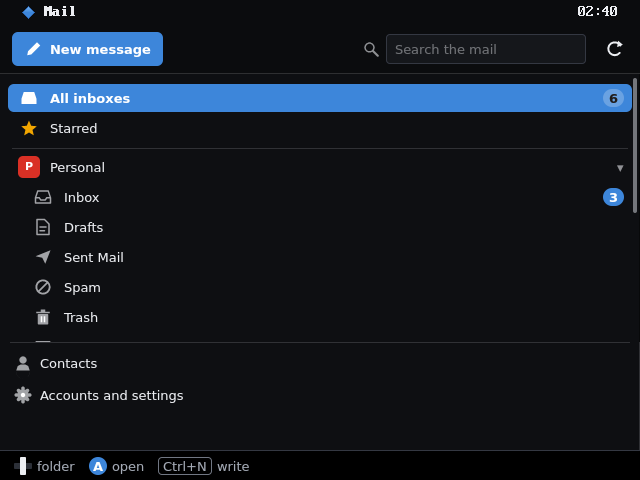
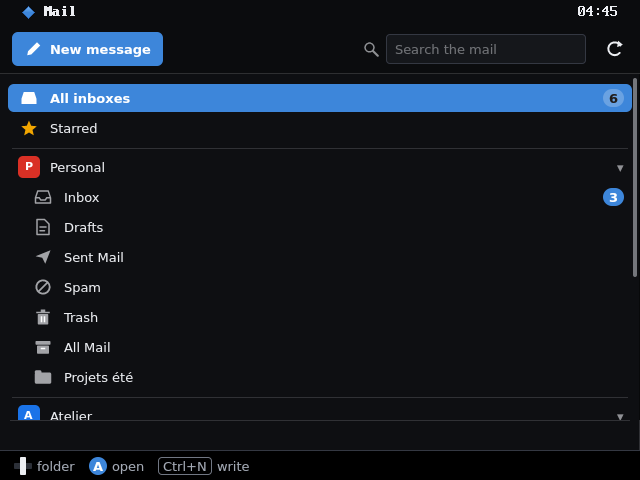
Pocket at 640 x 480, the medium fixes: the Control Panel's applets fit their 640 px pane (UIKit's uk_fit_pane), the Package Manager's window is the screen's, Mail's two account dialogs whole and reached by the keys, Setup's Wi-Fi password on its own page
Theme, Mode, Preload, App Settings, Panel: no sideways scroll, nothing out at the right. Package Manager: L / R its
tabs, the keys in its list. Mail: Contacts and Accounts are rows of the folders' list in pocket, B closes the boxes.
Setup: Up / Down a network, A chooses, the password shown as typed, B back; You are online readable. Suites:
pocket640 263 ok, pocketterm 78, run 500, adaptive 216; desktop pictures unchanged (39 compared); check_stubs 0 wrong.

Changed region(s): [[0.0, 0.6875, 0.3125, 0.875], [0.9688, 0.4375, 1.0, 0.5625], [0.9062, 0.0, 0.9375, 0.0312]]

diff --git a/user/Apps/setup/main.cpp b/user/Apps/setup/main.cpp
@@ -596,10 +596,16 @@ class NetList : public Widget
 public:
 	int sel, state; char err[96]; static const int RH = 42, OPEN_H = 92, OPEN_H0 = 50;
 	Textbox *pass; AccentButton *go; Checkbox *autoc;
-	NetList (int l, int t, int w, int h, Action onConnect) : Widget (l, t, w, h), sel (-1), state (NET_LIST)
+	Action conn;					// (pocket: A on an open network connects at once)
+	// POCKET (no pointer): Up / Down go from network to network (a bar on the one they are on; Up from the first: none),
+	// A (Enter) chooses it -- an open one connects; one with a password shows THE PASSWORD'S PAGE: that network alone,
+	// its field (the password shown as it is typed: a hidden one on a thumb keyboard is a locked door), A connects,
+	// B (Esc) goes back to the list.
+	bool page () const { return g_pk && open (); }
+	NetList (int l, int t, int w, int h, Action onConnect) : Widget (l, t, w, h), sel (-1), state (NET_LIST), conn (onConnect)
 	{
 		err[0] = 0;
-		pass = new Textbox (54, 0, width - 250, 30, "", onConnect); pass->password = true; pass->maxLen = 63;
+		pass = new Textbox (54, 0, width - 250, 30, "", onConnect); pass->password = !g_pk; pass->maxLen = 63;
 		go = new AccentButton (width - 178, 0, 160, 32, TR ("Connect"), onConnect);
 		autoc = new Checkbox (54, 0, 240, 22, TR ("Connect automatically"), true, 0, sel_bg ());
 		addChild (pass); addChild (go); addChild (autoc);
@@ -610,8 +616,8 @@ public:
 	bool open () const { return sel >= 0 && sel < g_nnets && state == NET_PASSWORD; }
 	bool needPass () const { return open () && g_nets[sel].sec != WLAN_SEC_OPEN; }
 	int openH () const { return open () ? (needPass () ? OPEN_H : OPEN_H0) : 0; }
-	int rowY (int i) const { return 4 + i * RH + (sel >= 0 && i > sel ? openH () : 0); }
-	int total () const { return 8 + (g_nnets ? g_nnets : 1) * RH + openH (); }
+	int rowY (int i) const { return page () ? 4 : 4 + i * RH + (sel >= 0 && i > sel ? openH () : 0); }
+	int total () const { return page () ? 8 + RH + openH () : 8 + (g_nnets ? g_nnets : 1) * RH + openH (); }
 	void place ()
 	{
 		bool o = open (), p = needPass ();
@@ -637,6 +643,8 @@ public:
 		for (int i = 0; i < g_nnets; i++)
 		{
 			const Net &n = g_nets[i]; int y = rowY (i); bool s = i == sel;
+			if (page () && !s) continue;		// (the password's page: that network alone)
+			if (g_pk && s && !open () && state != NET_CONNECTING) sel_row (canvas, 4, y, width - 8, RH - 4);	// (the keys' network)
 			if (s && open ()) sel_row (canvas, 4, y, width - 8, RH + openH () - 4);
 			else if (i > 0 && !(sel == i - 1 && open ())) canvas.fillRect (14, y, width - 28, 1, line_c (card_c ()));
 			bars (canvas, 18, y + 14, bars_of (n.level), C_FIELD_TEXT, uk_mix (card_c (), C_TEXT, 60));
@@ -665,14 +673,27 @@ public:
 	}
 	bool onKey (long k) override			// (pocket: Up / Down a network -- its row opens, the password's field has the keys)
 	{
-		if (!g_pk || (k != KEY_UP && k != KEY_DOWN) || g_nnets <= 0 || state == NET_CONNECTING) return false;
+		if (!g_pk || g_nnets <= 0 || state == NET_CONNECTING) return false;
+		if (open ())					// the password's page (an open network's: its Connect button)
+		{
+			if (k == 27) { state = NET_LIST; err[0] = 0; place (); setFocus (); return true; }
+			if (k == KEY_ENTER) { if (conn) conn (*this); return true; }
+			return k == KEY_UP || k == KEY_DOWN;
+		}
+		if (k == KEY_ENTER && sel >= 0 && sel < g_nnets && !(g_nets[sel].con && state == NET_CONNECTED))
+		{
+			err[0] = 0; pass->setText ("");
+			if (g_nets[sel].sec == WLAN_SEC_OPEN) { state = NET_PASSWORD; place (); if (conn) conn (*this); return true; }
+			state = NET_PASSWORD; place (); invalidate (true); pass->setFocus ();
+			return true;
+		}
+		if (k != KEY_UP && k != KEY_DOWN) return false;
 		int i = sel + (k == KEY_DOWN ? 1 : -1);
-		if (sel < 0) i = 0;
-		if (i < 0 || i >= g_nnets) return true;
-		if (g_nets[i].con && state == NET_CONNECTED) return true;
-		sel = i; state = NET_PASSWORD; err[0] = 0; pass->setText ("");
-		place (); invalidate (true);
-		if (needPass ()) pass->setFocus (); else go->setFocus ();
+		if (sel < 0) i = k == KEY_DOWN ? 0 : -1;
+		if (i >= g_nnets) return true;
+		if (i < 0) { sel = -1; invalidate (true); return true; }	// (none: A is "Continue" again)
+		sel = i; err[0] = 0;
+		invalidate (true);
 		return true;
 	}
 	bool onMouse (int mx, int my, int bl, int, int, int) override
@@ -753,6 +774,7 @@ public:
 		uk_rbox (canvas, 0, 0, width, height, 8, bg, bg);
 		uk_rline (canvas, 0, 0, width, height, 8, uk_mix (card_c (), c, 120));
 		unsigned ink = uk_tone (c, 70);
+		if (g_pk && uk_flat ()) ink = uk_mix (c, 0x00FFFFFF, 150);	// (pocket's dark card: a light shade of the colour, readable)
 		if (kind == 0) { disc (canvas, 14, height / 2 - 13, 26, c); uk_glyph (canvas, WKG_CHECK, 27, height / 2, 12, 0x00FFFFFF); }
 		else
 		{

diff --git a/user/Apps/mail/main.cpp b/user/Apps/mail/main.cpp
@@ -300,6 +300,12 @@ static void side_build ()			// the items: made again when the accounts, the fold
 		}
 	}
 	if (!g_m.accts.n) g_side->addItem (S_ADD, TR ("Add an account..."), I_PLUS);
+	if (g_three)						// (pocket's three screens, no pointer: the foot's two rows are rows of the
+	{							//  list -- the arrows reach them, Enter uses them)
+		g_side->addSeparator ();
+		g_side->addItem (S_CONTACTS, TR ("Contacts"), I_PERSON);
+		g_side->addItem (S_SETTINGS, TR ("Accounts and settings"), I_GEAR);
+	}
 	side_select ();
 }
 static void side_chosen (SidePanel &, int id)
@@ -309,6 +315,8 @@ static void side_chosen (SidePanel &, int id)
 	else if (id == S_UNIFIED) { show_contacts (false); select_view (SEL_UNIFIED); }
 	else if (id == S_STARRED) { show_contacts (false); select_view (SEL_STARRED); }
 	else if (id == S_ADD) { side_select (); open_wizard (); return; }
+	else if (id == S_CONTACTS) { side_select (); show_contacts (true); return; }
+	else if (id == S_SETTINGS) { side_select (); open_settings (); return; }
 	if (g_three) three_go (SC_LIST);			// (pocket's three screens: a folder chosen -- its messages)
 }
 class SideFoot : public Widget
@@ -335,15 +343,19 @@ public:
 		hits.clear ();
 		canvas.fillRect (width - 1, 0, 1, height, con () ? 0x00304870 : uk_mix (col_side (), C_TEXT, 40));
 		canvas.fillRect (10, 0, width - 20, 1, uk_mix (face (), ink (), 40));
+		if (!g_three)					// (pocket's three screens: they are rows of the list above)
+		{
 		row (6, S_CONTACTS, I_PERSON, TR ("Contacts"), g_showContacts);
 		row (38, S_SETTINGS, I_GEAR, TR ("Accounts and settings"), false);
+		}
 		const char *st = g_m.worker.current[0] ? g_m.worker.current : (g_note[0] && kapi_get_ticks () - g_noteT < 800) ? g_note : g_m.lastError;
 		bool isErr = !g_m.worker.current[0] && !(g_note[0] && kapi_get_ticks () - g_noteT < 800) && g_m.lastError[0];
 		if (st && st[0])
 		{
-			if (isErr) icon (canvas, I_WARN, 12, 78, 14, 0xC5221F);
-			text (canvas, isErr ? 32 : 14, 77, st, uk_mix (face (), ink (), 150), F_SMALL, 0, width - (isErr ? 40 : 24));
-			if (isErr) hits.add (0, 72, width, 26, S_ERROR);
+			int sy = g_three ? 8 : 77;			// (pocket's three screens: the foot is this line alone)
+			if (isErr) icon (canvas, I_WARN, 12, sy + 1, 14, 0xC5221F);
+			text (canvas, isErr ? 32 : 14, sy, st, uk_mix (face (), ink (), 150), F_SMALL, 0, width - (isErr ? 40 : 24));
+			if (isErr) hits.add (0, sy - 5, width, 26, S_ERROR);
 		}
 	}
 	bool onMouse (int mx, int my, int bl, int, int, int) override
@@ -635,6 +647,7 @@ static void layout_three (int W, int H)
 	g_onePane = g_oneConv = false;
 	g_tb->resizeTo (W, TB_H); g_tb->place ();
 	g_side->setRail (false);
+	g_side->setFooter (g_foot, 30);				// (its two rows are rows of the list here: the status line alone)
 	g_side->place (s == SC_FOLDERS ? 0 : W, TB_H, W, H - TB_H);
 	((Widget *) g_side)->hidden = s != SC_FOLDERS && s != SC_LIST;
 	((Widget *) g_side)->disabled = s != SC_FOLDERS;
@@ -650,7 +663,7 @@ static void layout_parts ()
 	int W = g_root->width, H = g_root->height;
 	{
 		bool three = uk_mode () == UK_MODE_POCKET && uk_size_class () == UK_SC_COMPACT && W < 800;
-		if (g_three && !three) { g_side->setRail (true); ((Widget *) g_side)->hidden = false; ((Widget *) g_side)->disabled = false; }
+		if (g_three && !three) { g_side->setRail (true); g_side->setFooter (g_foot, 108); ((Widget *) g_side)->hidden = false; ((Widget *) g_side)->disabled = false; }
 		bool first = three && !g_three;
 		g_three = three;
 		if (three) { side_build (); layout_three (W, H); if (first) three_focus (); return; }
@@ -1289,6 +1302,8 @@ int main (void)
 	{							// (pocket on a small screen: a message's title 20 px, not 24)
 		int sw = 0, sh = 0; kapi_screen_size (&sw, &sh);
 		if (uk_mode () == UK_MODE_POCKET && sw > 0 && sw < 800 && g_face[F_H1]) g_face[F_H1]->open ("DejaVu Sans", 20);
+		// (... and the two account dialogs inside the 640 x 450 window, whole: no sheet to scroll)
+		if (uk_mode () == UK_MODE_POCKET && sw > 0 && sw < 800) { Wizard::W = 600; Wizard::H = 440; SettingsBox::W = sw - 16 < 680 ? sw - 16 : 680; SettingsBox::H = 440; }
 	}
 	root.setResizable (true);
 	root.setBg (C_BG);

diff --git a/user/Apps/mail/wizard.h b/user/Apps/mail/wizard.h
@@ -33,7 +33,8 @@ public:
 	Dropdown *dKind, *dInSec, *dOutSec; Checkbox *cKeep;
 	Button *bBack, *bNext, *bCancel, *bExtra;
 	DeviceCode dc; bool haveCode, waiting, copied;
-	static const int W = 600, H = 470, PAD = 26;
+	inline static int W = 600, H = 470;		// (pocket on a small screen: 600 x 440 -- inside a 640 x 450 window; main sets it)
+	static const int PAD = 26;
 
 	Wizard () : Modal (W, H), page (P_START), prevPage (P_START), provider (-1), haveCode (false), waiting (false), copied (false)
 	{
@@ -126,6 +127,7 @@ public:
 		Job *j = new Job; memset (j, 0, sizeof *j); j->kind = J_CHECK; j->acct = a;
 		g_m.worker.cancel = 0; g_m.worker.push (j);
 	}
+	bool onKey (long k) override { if (g_three && k == 27) { onButton (1); return true; } return false; }	// (pocket, no pointer: B is Cancel)
 	void onButton (int tag) override
 	{
 		read_fields ();
@@ -319,7 +321,8 @@ public:
 	int cur;
 	Textbox *tName, *tLabel, *tPw; Textarea *tSig; Dropdown *dEvery;
 	HitList hits;
-	static const int W = 680, H = 500, LW = 200, PAD = 20;
+	inline static int W = 680, H = 500;		// (pocket on a small screen: 624 x 440)
+	static const int LW = 200, PAD = 20;
 	SettingsBox () : Modal (W, H), cur (0) { tName = tLabel = tPw = 0; tSig = 0; dEvery = 0; build (); }
 	~SettingsBox () { g_settings = 0; free_dead (); }
 	// (rebuilt from a button's callback too: the old widgets kept until the next rebuild, as the Wizard's)
@@ -358,6 +361,7 @@ public:
 		if (tPw && tPw->text[0]) { scpy (a.inSecret, tPw->text, sizeof a.inSecret); tPw->setText (""); g_m.accts.save_secrets (); }
 		g_m.accts.save ();
 	}
+	bool onKey (long k) override { if (g_three && k == 27) { onButton (2); return true; } return false; }	// (pocket, no pointer: B is Close)
 	void onButton (int tag) override
 	{
 		if (tag == 2) { save_cur (); close (0); return; }

diff --git a/user/Kits/uikit/adapt.cpp b/user/Kits/uikit/adapt.cpp
@@ -574,6 +574,32 @@ void uk_keypointer_draw (Canvas &cv, const UkKeyPointer &p)
 	if (p.held) uk_rbox (cv, p.x - 3, p.y - 3, 7, 7, 3, a, a);
 }
 
+// A fixed layout brought to a smaller pane (uikit/adapt.h).
+static void fit_children (Widget *parent, int fromW, int fromH, int toW, int toH)
+{
+	if (parent == 0 || fromW <= 0 || fromH <= 0 || toW <= 0 || toH <= 0 || (fromW == toW && fromH == toH)) return;
+	for (Widget *c = parent->firstChild; c; c = c->nextSib)
+	{
+		int l = c->left * toW / fromW, r = (c->left + c->width) * toW / fromW;
+		int t = c->top * toH / fromH, b = (c->top + c->height) * toH / fromH;
+		c->left = l; c->top = t;
+		if (r - l != c->width || b - t != c->height) c->resizeTo (r - l > 1 ? r - l : 1, b - t > 1 ? b - t : 1);
+	}
+	parent->invalidate (true);
+}
+
+void uk_fit_pane (Widget *pane, int layoutW, int layoutH, Widget *const *groups, int ngroups)
+{
+	if (pane == 0 || layoutW <= 0 || layoutH <= 0) return;
+	int toW = pane->width < layoutW ? pane->width : layoutW, toH = pane->height < layoutH ? pane->height : layoutH;
+	if (toW == layoutW && toH == layoutH) return;
+	int gw[16], gh[16];
+	if (ngroups > 16) ngroups = 16;
+	for (int i = 0; i < ngroups; i++) { gw[i] = groups[i]->width; gh[i] = groups[i]->height; }
+	fit_children (pane, layoutW, layoutH, toW, toH);
+	for (int i = 0; i < ngroups; i++) fit_children (groups[i], gw[i], gh[i], groups[i]->width, groups[i]->height);
+}
+
 // The pad's actions for a program that runs its own loop (uikit/adapt.h): what Root::step does each turn.
 void uk_input_turn (Root *root) { internal::pad_turn (root); }
 

diff --git a/user/Apps/pkgman/main.cpp b/user/Apps/pkgman/main.cpp
@@ -588,7 +588,11 @@ int main (void)
 	if (strstr (args, "--updates")) g_tab = T_UPDATES;
 	else if (!count (T_UPDATES) && g_haveIndex) g_tab = T_INSTALLED;
 	refilter ();
-	App root (W, H);
+	// (pocket on a small screen -- under 800 px wide: the window is the screen's, 640 x 450, and the layout made for
+	//  700 x 470 is fitted to it; elsewhere, and as the Control Panel's applet: as it was)
+	int ww = W, wh = H;
+	{ int sw = 0, sh = 0; kapi_screen_size (&sw, &sh); if (!uk_applet () && uk_mode () == UK_MODE_POCKET && sw > 0 && sw < 800 && sh > 60) { ww = sw; wh = sh - 30; } }
+	App root (ww, wh);
 	if (root.canvas.px == 0) return 1;
 	int X = root.width > W ? (root.width - W) / 2 : 0;
 	g_tabs = new SegmentedControl (X + 12, 10, 384, TABH, 0, 0, g_tab, on_tab); tabs_labels (); g_tabs->select (g_tab); root.addChild (g_tabs);
@@ -599,6 +603,8 @@ int main (void)
 	g_lblStatus = new Label (X + 14, H - FOOT + 12, W - 24 - 328, 22, "", C_DIS, root.bg); root.addChild (g_lblStatus);
 	g_btnCheck = new Button (X + W - 12 - 318, H - FOOT + 8, 110, 30, TR ("Check Now"), on_check); root.addChild (g_btnCheck);
 	g_btnMain = new Button (X + W - 12 - 200, H - FOOT + 8, 200, 30, TR ("Install Updates"), on_install); root.addChild (g_btnMain);
+	uk_fit_pane (&root, W, H);
+	if (ww != W) { uk_segmented_nav (g_tabs); g_list->setFocus (); }	// (pocket: Updates / Installed / Available are the window's tabs -- L / R; the keys start in the list)
 	status_idle (); update_main_button ();
 	on_check (*g_btnCheck);					// the repository read again at once
 	root.run ();

diff --git a/user/Kits/uikit/adapt.h b/user/Kits/uikit/adapt.h
@@ -107,6 +107,14 @@ bool uk_keys_drive ();			// pocket and console: the keys (a d-pad) may be all th
 bool uk_keypointer_move (UkKeyPointer &p, long key, int step, int x0, int y0, int x1, int y1);
 void uk_keypointer_draw (Canvas &cv, const UkKeyPointer &p);	// a ring and a cross at its place (held: filled)
 
+// ---- a fixed layout in a smaller pane (pocket: a Control Panel applet made for 700 x 470 shown in 640 x 406) ------------
+// The children of `pane` (an applet's Root), laid out by the app for a pane of layoutW x layoutH, are brought to the
+// pane's real size where it is smaller: each one's place and size scaled as a whole (its right and bottom edges with
+// its neighbours'), and so are the children of the boxes named in `groups` (a GroupBox's controls). The texts keep
+// their size. Called once, after the widgets are made; it does nothing when the pane is the layout's size at least --
+// the desktop, always.
+void uk_fit_pane (Widget *pane, int layoutW, int layoutH, Widget *const *groups = 0, int ngroups = 0);
+
 // ---- the console's shoulders -------------------------------------------------------------------------------------
 // L1 / R1 (on a keyboard: Ctrl+Page Up / Ctrl+Page Down) step through the window's tabs, else through its navigation
 // SidePanel's sections; L2 / R2 (Page Up / Page Down) page a list. The pad's buttons are given these keys by the

diff --git a/user/Apps/modeconf/main.cpp b/user/Apps/modeconf/main.cpp
@@ -250,7 +250,11 @@ int main (void)
 	root.addChild (new Label (X + 12, y + 20, W - 200, 20, TR ("each one asks about its unsaved work."), C_TEXT, root.bg));
 	g_status = new Label (X + 12, y + 48, W - 24, 22, "", C_TEXT, root.bg);
 	root.addChild (g_status);
-	root.addChild (new Label (X + 12, H - 26, W - 24, 20, TR ("Kept in SD:/etc/system.ini (shell=); the programs of each mode: SD:/etc/session."), C_DIS, root.bg));
+	Label *foot = new Label (X + 12, H - 26, W - 24, 20, TR ("Kept in SD:/etc/system.ini (shell=); the programs of each mode: SD:/etc/session."), C_DIS, root.bg);
+	root.addChild (foot);
+	// (pocket's 640 px pane: the layout fitted to its width -- the cards keep their height, their words whole; the line
+	//  of where it is kept gives its room)
+	{ Widget *g[1] = { gb }; uk_fit_pane (&root, W, root.height < H ? root.height : H, g, 1); if (root.height < H) ((Widget *) foot)->hidden = true; }
 	root.run ();
 	return 0;
 }

diff --git a/user/Apps/control/main.cpp b/user/Apps/control/main.cpp
@@ -188,10 +188,14 @@ static int last_read (void)
 	return link_by_target (v);
 }
 
+static bool narrow ();
 // The surface the pane's size, the applets' at least (made again only when that changed: before an applet starts).
 static bool surface_fit (void)
 {
 	int w = g_aw > AW ? g_aw : AW, h = g_ah > AH ? g_ah : AH;
+	// (pocket under 800 px wide -- one thing at a time: the applet gets the pane as it is, 640 x 406 on a 640 x 480 screen,
+	//  and fits its layout to it -- uk_fit_children: no pane scrolled sideways, nothing out of the keys' reach)
+	if (uk_mode () == UK_MODE_POCKET && narrow () && g_aw > 0 && g_ah > 0) { w = g_aw; h = g_ah; }
 	if (g_sid > 0 && g_sw == w && g_sh == h) return true;
 	if (g_sid > 0) kapi_surface_destroy (g_sid);
 	g_sid = kapi_surface_create (w, h);

diff --git a/user/Apps/theme/main.cpp b/user/Apps/theme/main.cpp
@@ -683,6 +683,13 @@ int main (void)
 	desk_add (g_pkC1);
 	g_ddMode = new Dropdown (96, y0, 200, 28, tr_list (MODES, WP_NMODES, g_trMode), WP_NMODES, 0, on_mode); desk_add (g_ddMode);
 
+	{						// (pocket's 640 px pane: the layout fitted to it; the swatches keep their height: their names)
+		int sh = g_sw[0] ? ((Widget *) g_sw[0])->height : 0;
+		uk_fit_pane (&root, W, H);
+		bool fitted = false;
+		for (int i = 0; i < NTHEMES; i++) if (g_sw[i] && ((Widget *) g_sw[i])->height != sh) { ((Widget *) g_sw[i])->resizeTo (((Widget *) g_sw[i])->width, sh); ((Widget *) g_sw[i])->top = 24; fitted = true; }
+		if (fitted) ((Widget *) g_segTheme)->top = 1;	// (the rows are closer: the swatches right under the theme's switch)
+	}
 	load_current ();
 	root.run ();
 	return 0;

diff --git a/user/Apps/preloadconf/main.cpp b/user/Apps/preloadconf/main.cpp
@@ -220,6 +220,7 @@ int main (void)
 	g_status = new Label (X + 12, 418, W - 24, 22, "", C_DIS, root.bg); root.addChild (g_status);
 	root.addChild (new Label (X + 12, H - 26, W - 24, 20, TR ("Kept in SD:/etc/preload.ini; read at boot by the last line of SD:/etc/autostart: preload /boot."), C_DIS, root.bg));
 
+	{ Widget *g[2] = { gl, ga }; uk_fit_pane (&root, W, H, g, 2); }	// (pocket's 640 px pane: the layout fitted to it)
 	scan_progs ();
 	for (int i = 0; i < g_nprogs; i++) g_lbAll->add (g_progs[i].label);
 	preload_ini_load (&g_list);

diff --git a/user/Apps/config/main.cpp b/user/Apps/config/main.cpp
@@ -164,6 +164,7 @@ int main (void)
 	g_status = new Label (X + 216, 380, 472, 22, "", C_DIS, root.bg); root.addChild (g_status);
 	root.addChild (new Button (X + 216 + 472 - 212, H - 42, 106, 32, TR ("Save"), on_save));
 	root.addChild (new Button (X + 216 + 472 - 100, H - 42, 100, 32, TR ("Reload"), on_reload));
+	uk_fit_pane (&root, W, H);			// (pocket's 640 px pane: the layout fitted to it)
 	root.run ();
 	return 0;
 }

diff --git a/user/Apps/dockconf/main.cpp b/user/Apps/dockconf/main.cpp
@@ -296,6 +296,7 @@ int main (void)
 	root.addChild (new Button (X + W - 196, H - 42, 90, 32, TR ("Apply"), on_apply));
 	root.addChild (new Button (X + W - 100, H - 42, 90, 32, TR ("Discard"), on_discard));
 
+	{ Widget *g[3] = { gd, gw, gl }; uk_fit_pane (&root, W, H, g, 3); }	// (pocket's 640 px pane: the layout fitted to it)
 	fill_all ();
 	root.run ();
 	return 0;
